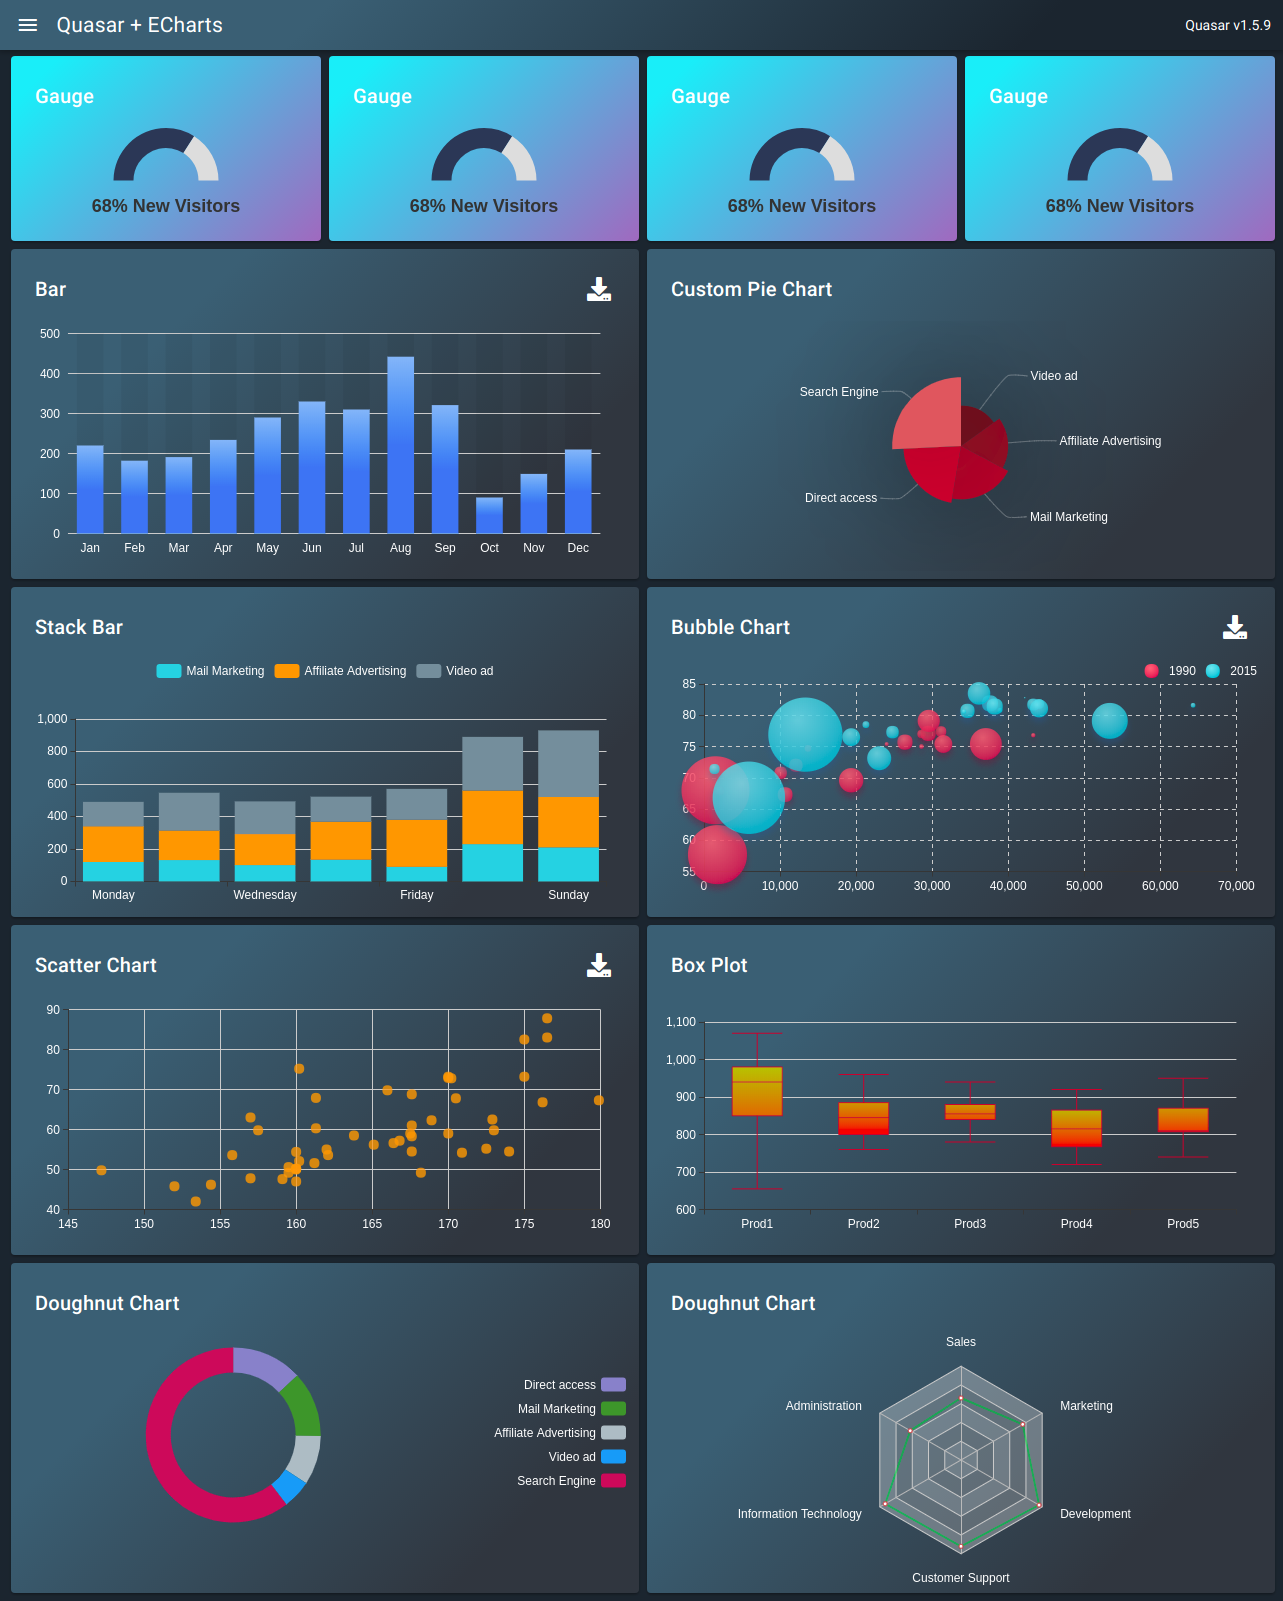
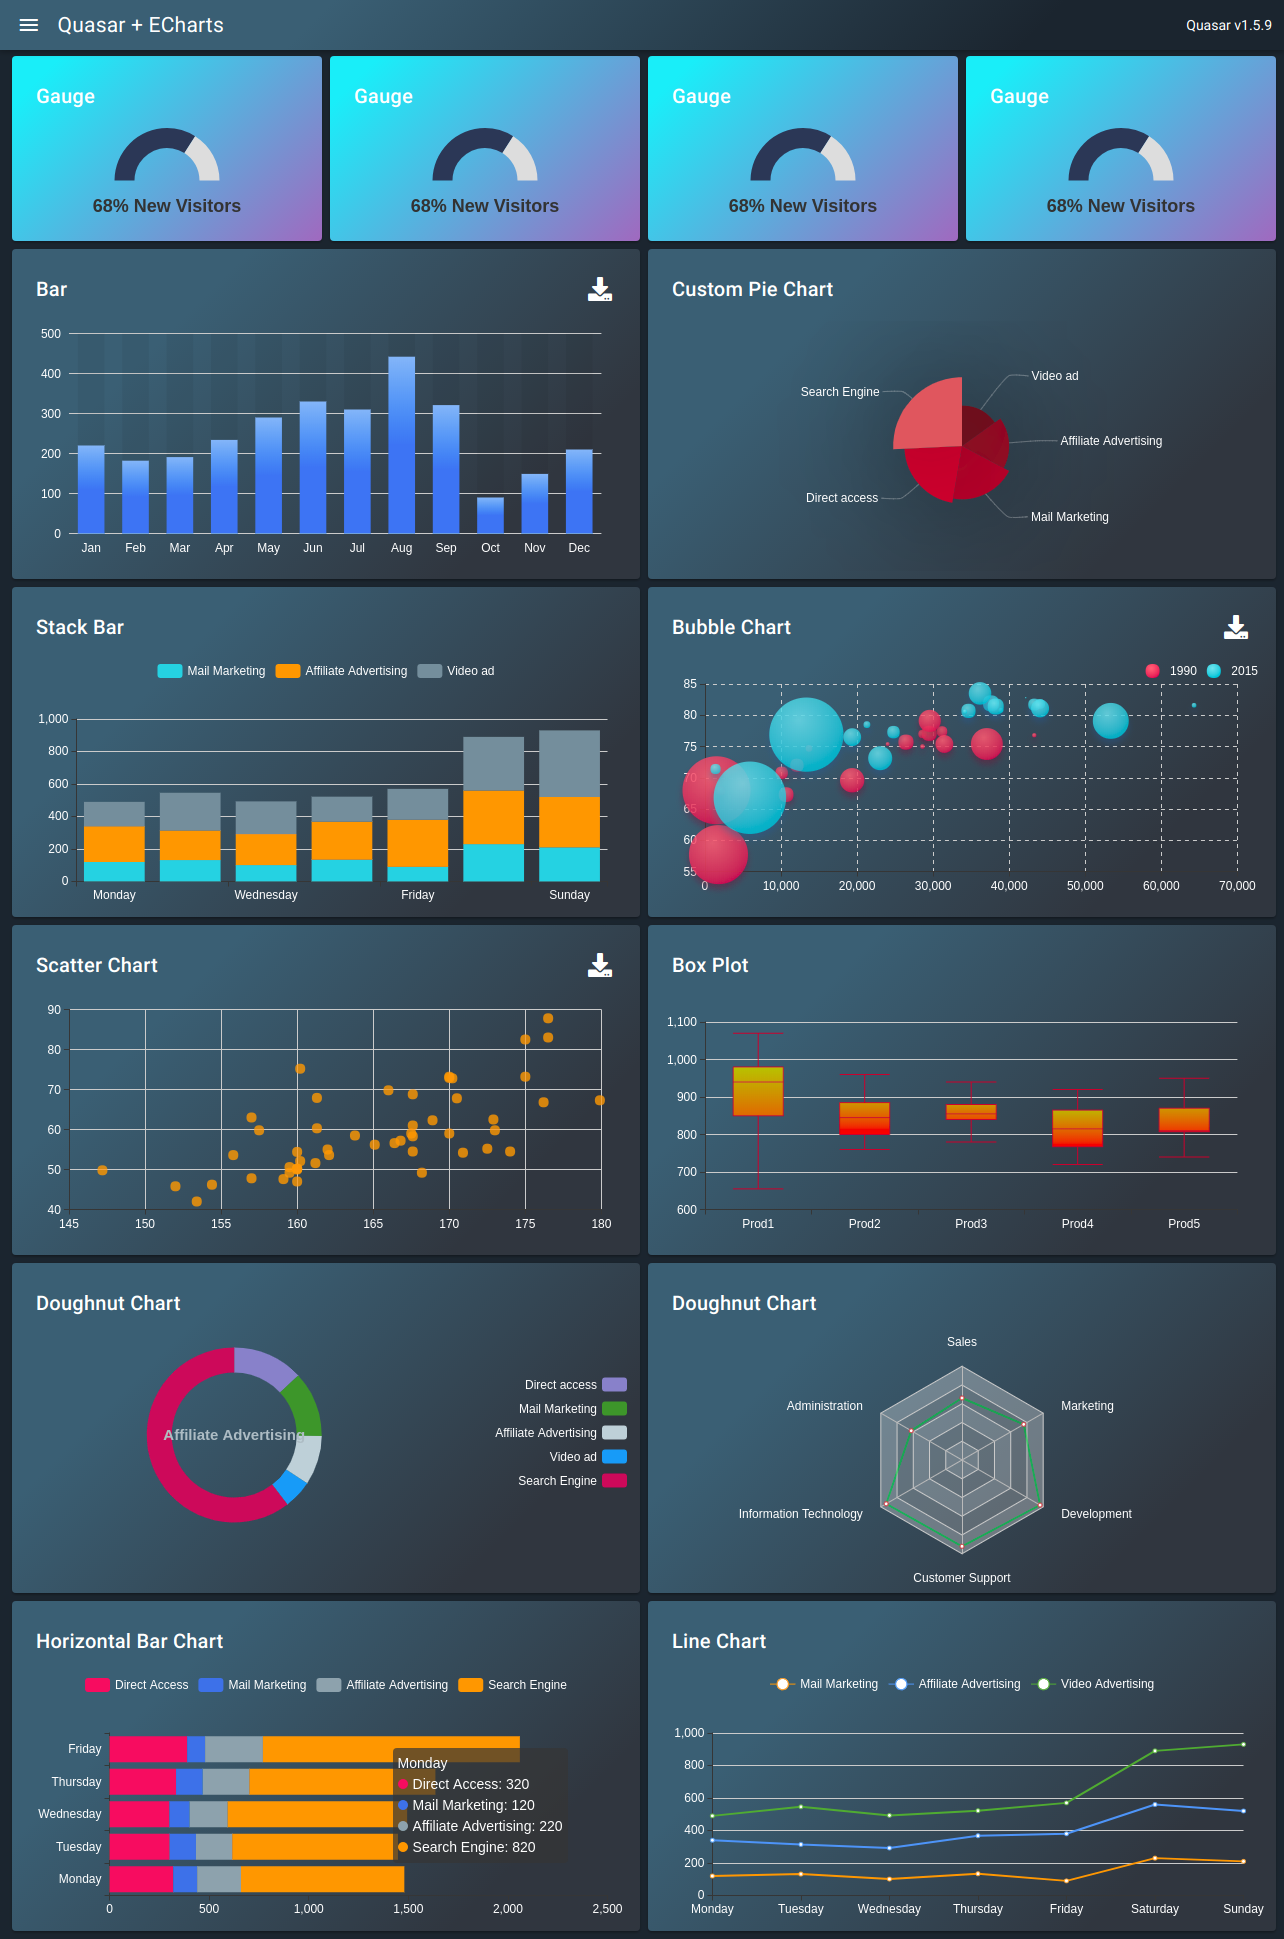
Added New Graphs(Line and Horizontal Bar Chart)

diff --git a/src/components/HorizontalBarChart.vue b/src/components/HorizontalBarChart.vue
@@ -1,0 +1,120 @@
+<template>
+  <q-card class="q-pa-sm text-white" style="background:linear-gradient( 135deg, #3A6073 25%, #2c343c 80%)">
+    <q-card-section class="text-h6">
+      Horizontal Bar Chart
+    </q-card-section>
+    <q-card-section class="q-pa-none q-pt-md">
+      <IEcharts style="height: 250px;" :option="getHorizontalBarChartOptions" :resizable="true"></IEcharts>
+    </q-card-section>
+  </q-card>
+</template>
+
+<script>
+    import IEcharts from 'vue-echarts-v3/src/full.js';
+
+    export default {
+        name: "HorizontalBarChart",
+        components: {
+            IEcharts
+        },
+        computed:{
+            getHorizontalBarChartOptions() {
+                return {
+                    tooltip: {
+                        trigger: 'axis',
+                    },
+                    legend: {
+                        data: ['Direct Access', 'Mail Marketing', 'Affiliate Advertising','Search Engine'],
+                        textStyle: {
+                            color: '#fff'
+                        }
+                    },
+                    grid: {
+                        left: '3%',
+                        right: '4%',
+                        bottom: '3%',
+                        containLabel: true
+                    },
+                    xAxis: {
+                        type: 'value',
+                        axisLabel: {
+                            textStyle: {
+                                color: '#fff'
+                            }
+                        },
+                        splitLine:{
+                            show:false
+                        }
+                    },
+                    yAxis: {
+                        type: 'category',
+                        data: ['Monday', 'Tuesday', 'Wednesday', 'Thursday', 'Friday'],
+                        axisLabel: {
+                            textStyle: {
+                                color: '#fff'
+                            }
+                        }
+                    },
+                    series: [
+                        {
+                            name: 'Direct Access',
+                            type: 'bar',
+                            stack: 'Total',
+                            label: {
+                                normal: {
+                                    show: false,
+                                    position: 'insideRight'
+                                }
+                            },
+                            data: [320, 302, 301, 334, 390],
+                            color:'#ea4b64'
+                        },
+                        {
+                            name: 'Mail Marketing',
+                            type: 'bar',
+                            stack: 'Total',
+                            label: {
+                                normal: {
+                                    show: false,
+                                    position: 'insideRight'
+                                }
+                            },
+                            data: [120, 132, 101, 134, 90],
+                            color:'#1e88e5'
+                        },
+                        {
+                            name: 'Affiliate Advertising',
+                            type: 'bar',
+                            stack: 'Total',
+                            label: {
+                                normal: {
+                                    show: false,
+                                    position: 'insideRight'
+                                }
+                            },
+                            data: [220, 182, 191, 234, 290],
+                            color:'#90a4ae'
+                        },
+                        {
+                            name: 'Search Engine',
+                            type: 'bar',
+                            stack: 'Total',
+                            label: {
+                                normal: {
+                                    show: false,
+                                    position: 'insideRight'
+                                }
+                            },
+                            data: [820, 832, 901, 934, 1290],
+                            color:'#f9982d'
+                        }
+                    ]
+                }
+            }
+        }
+    }
+</script>
+
+<style scoped>
+
+</style>

diff --git a/src/components/LineChart.vue b/src/components/LineChart.vue
@@ -1,7 +1,7 @@
 <template>
   <q-card class="q-pa-sm text-white" style="background:linear-gradient( 135deg, #3A6073 25%, #2c343c 80%)">
     <q-card-section class="text-h6">
-      Custom Pie Chart
+      Line Chart
     </q-card-section>
     <q-card-section class="q-pa-none q-pt-md">
       <IEcharts style="height: 250px;" :option="getLineChartOptions" :resizable="true"></IEcharts>
@@ -20,7 +20,64 @@
         computed:{
             getLineChartOptions(){
                 return {
+                    tooltip: {
+                        trigger: 'axis'
+                    },
+                    legend: {
 
+                        data: ['Mail Marketing', 'Affiliate Advertising', 'Video Advertising'],
+                        textStyle:{
+                            color:'#fff'
+                        }
+                    },
+                    grid: {
+                        left: '3%',
+                        right: '4%',
+                        bottom: '3%',
+                        containLabel: true
+                    },
+                    xAxis: {
+                        type: 'category',
+                        boundaryGap: false,
+                        data: ['Monday', 'Tuesday', 'Wednesday', 'Thursday', 'Friday', 'Saturday', 'Sunday'],
+                        axisLabel: {
+                            textStyle: {
+                                color: '#fff'
+                            }
+                        },
+                    },
+                    yAxis: {
+                        type: 'value',
+                        axisLabel: {
+                            textStyle: {
+                                color: '#fff'
+                            }
+                        },
+                    },
+                    series:
+                        [
+                            {
+                                name: 'Mail Marketing',
+                                type: 'line',
+                                stack: 'Total',
+                                data: [120, 132, 101, 134, 90, 230, 210],
+                                color:'#f9982d'
+                            },
+                            {
+                                name: 'Affiliate Advertising',
+                                type: 'line',
+                                stack: 'Total',
+                                data: [220, 182, 191, 234, 290, 330, 310],
+                                color:'#42a5f5'
+                            },
+                            {
+                                name: 'Video Advertising',
+                                type: 'line',
+                                stack: 'Total',
+                                data: [150, 232, 201, 154, 190, 330, 410],
+                                color:'#689f38'
+                            }
+                        ]
                 }
             }
         }

diff --git a/src/pages/Index.vue b/src/pages/Index.vue
@@ -46,6 +46,14 @@
         <radar-chart></radar-chart>
       </div>
 
+      <div class="col-lg-6 col-md-6 col-sm-12 col-xs-12">
+        <horizontal-bar-chart></horizontal-bar-chart>
+      </div>
+
+      <div class="col-lg-6 col-md-6 col-sm-12 col-xs-12">
+        <line-chart></line-chart>
+      </div>
+
     </div>
   </q-page>
 </template>
@@ -60,10 +68,14 @@ import ScatterChart from "../components/ScatterChart";
 import BoxPlot from "../components/BoxPlot";
 import DoughnutChart from "../components/DoughnutChart";
 import RadarChart from "../components/RadarChart";
+import HorizontalBarChart from "../components/HorizontalBarChart";
+import LineChart from "../components/LineChart";
 
 export default {
   name: 'PageIndex',
     components: {
+        LineChart,
+        HorizontalBarChart,
         RadarChart,
         DoughnutChart,
         BoxPlot,
